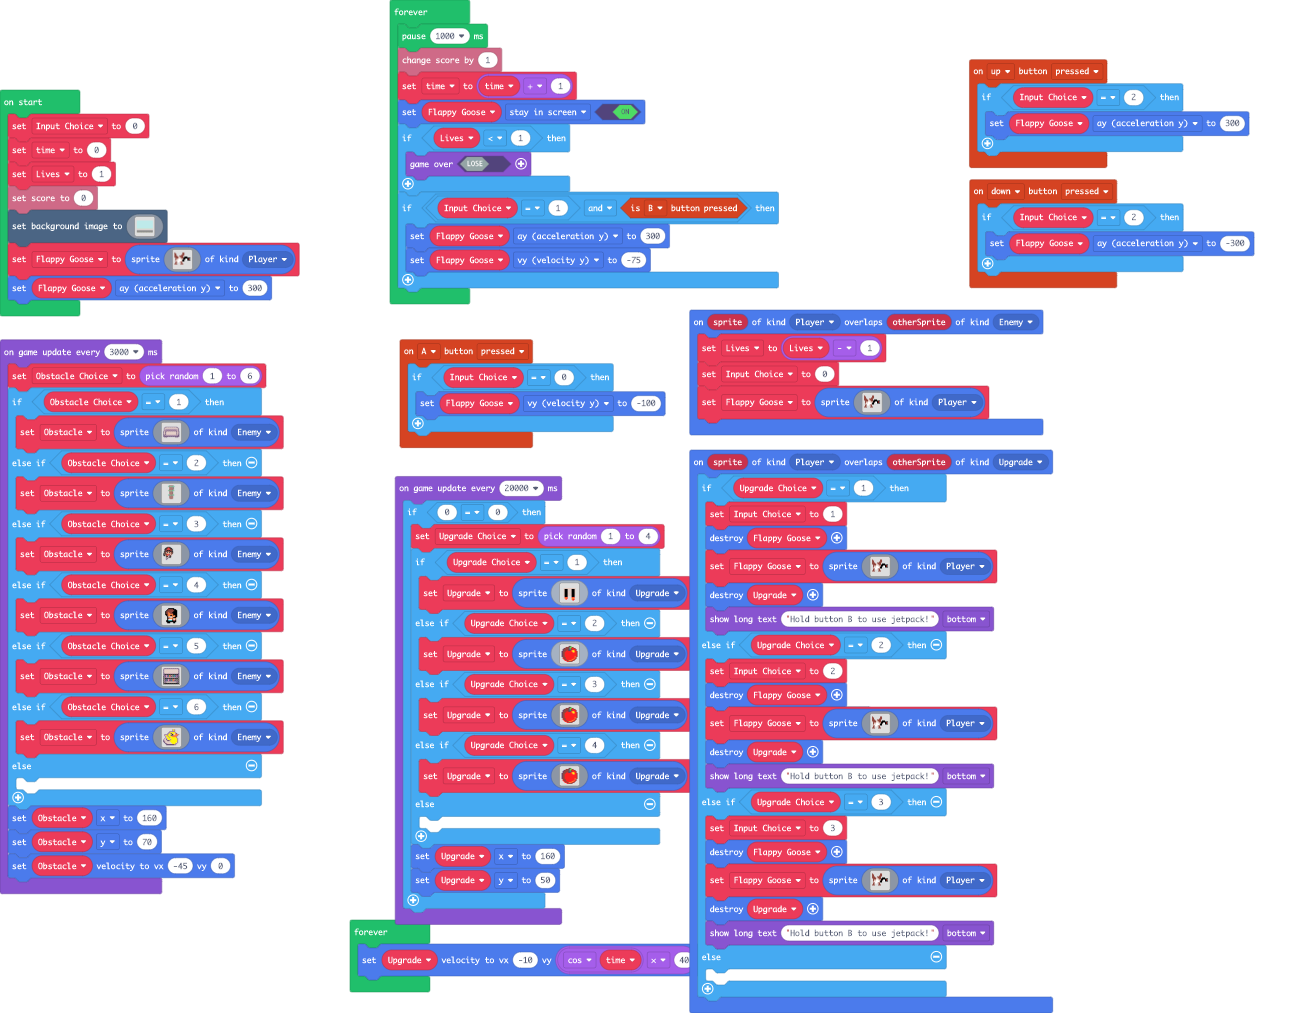
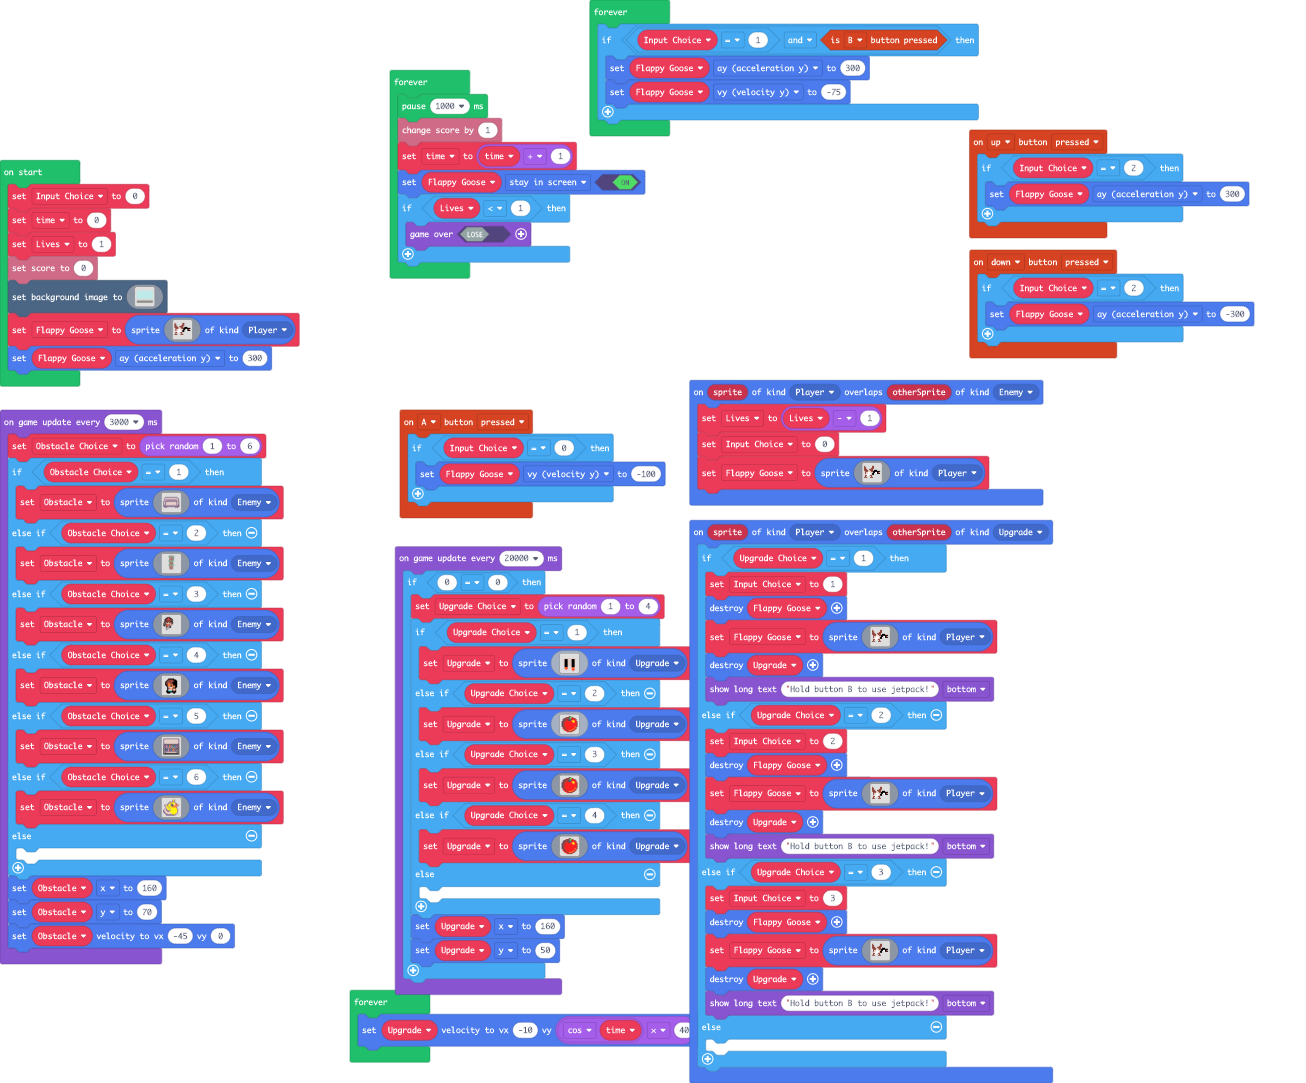
Update main.blocks, main.ts

diff --git a/main.ts b/main.ts
@@ -265,16 +265,18 @@ Flappy_Goose = sprites.create(img`
     `, SpriteKind.Player)
 Flappy_Goose.ay = 300
 forever(function () {
+    if (Input_Choice == 1 && controller.B.isPressed()) {
+        Flappy_Goose.ay = 300
+        Flappy_Goose.vy = -75
+    }
+})
+forever(function () {
     pause(1000)
     info.changeScoreBy(1)
     time = time + 1
     Flappy_Goose.setFlag(SpriteFlag.StayInScreen, true)
     if (Lives < 1) {
         game.over(false)
-    }
-    if (Input_Choice == 1 && controller.B.isPressed()) {
-        Flappy_Goose.ay = 300
-        Flappy_Goose.vy = -75
     }
 })
 forever(function () {
